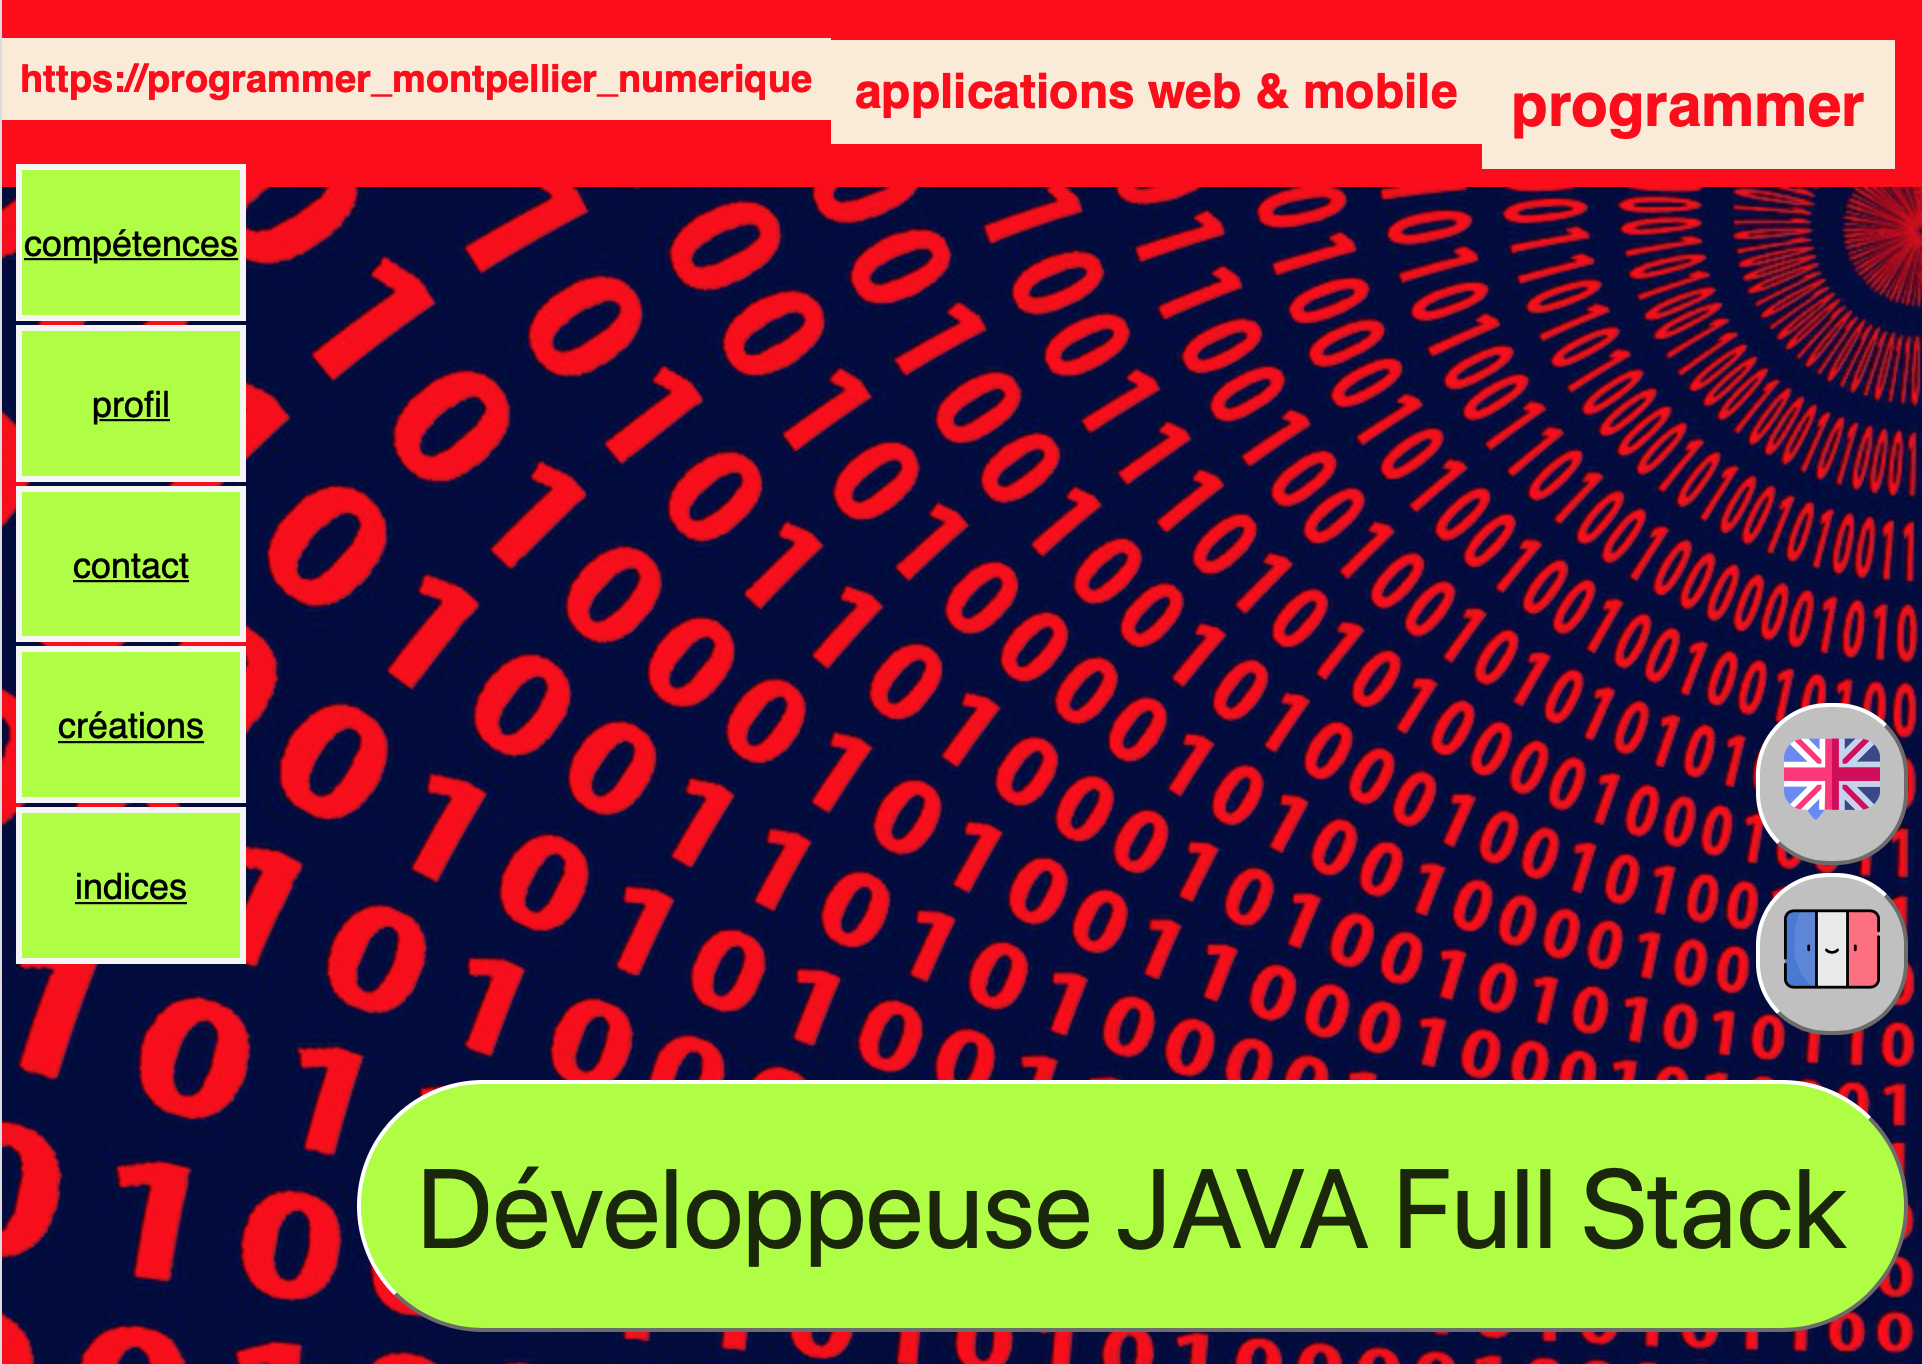
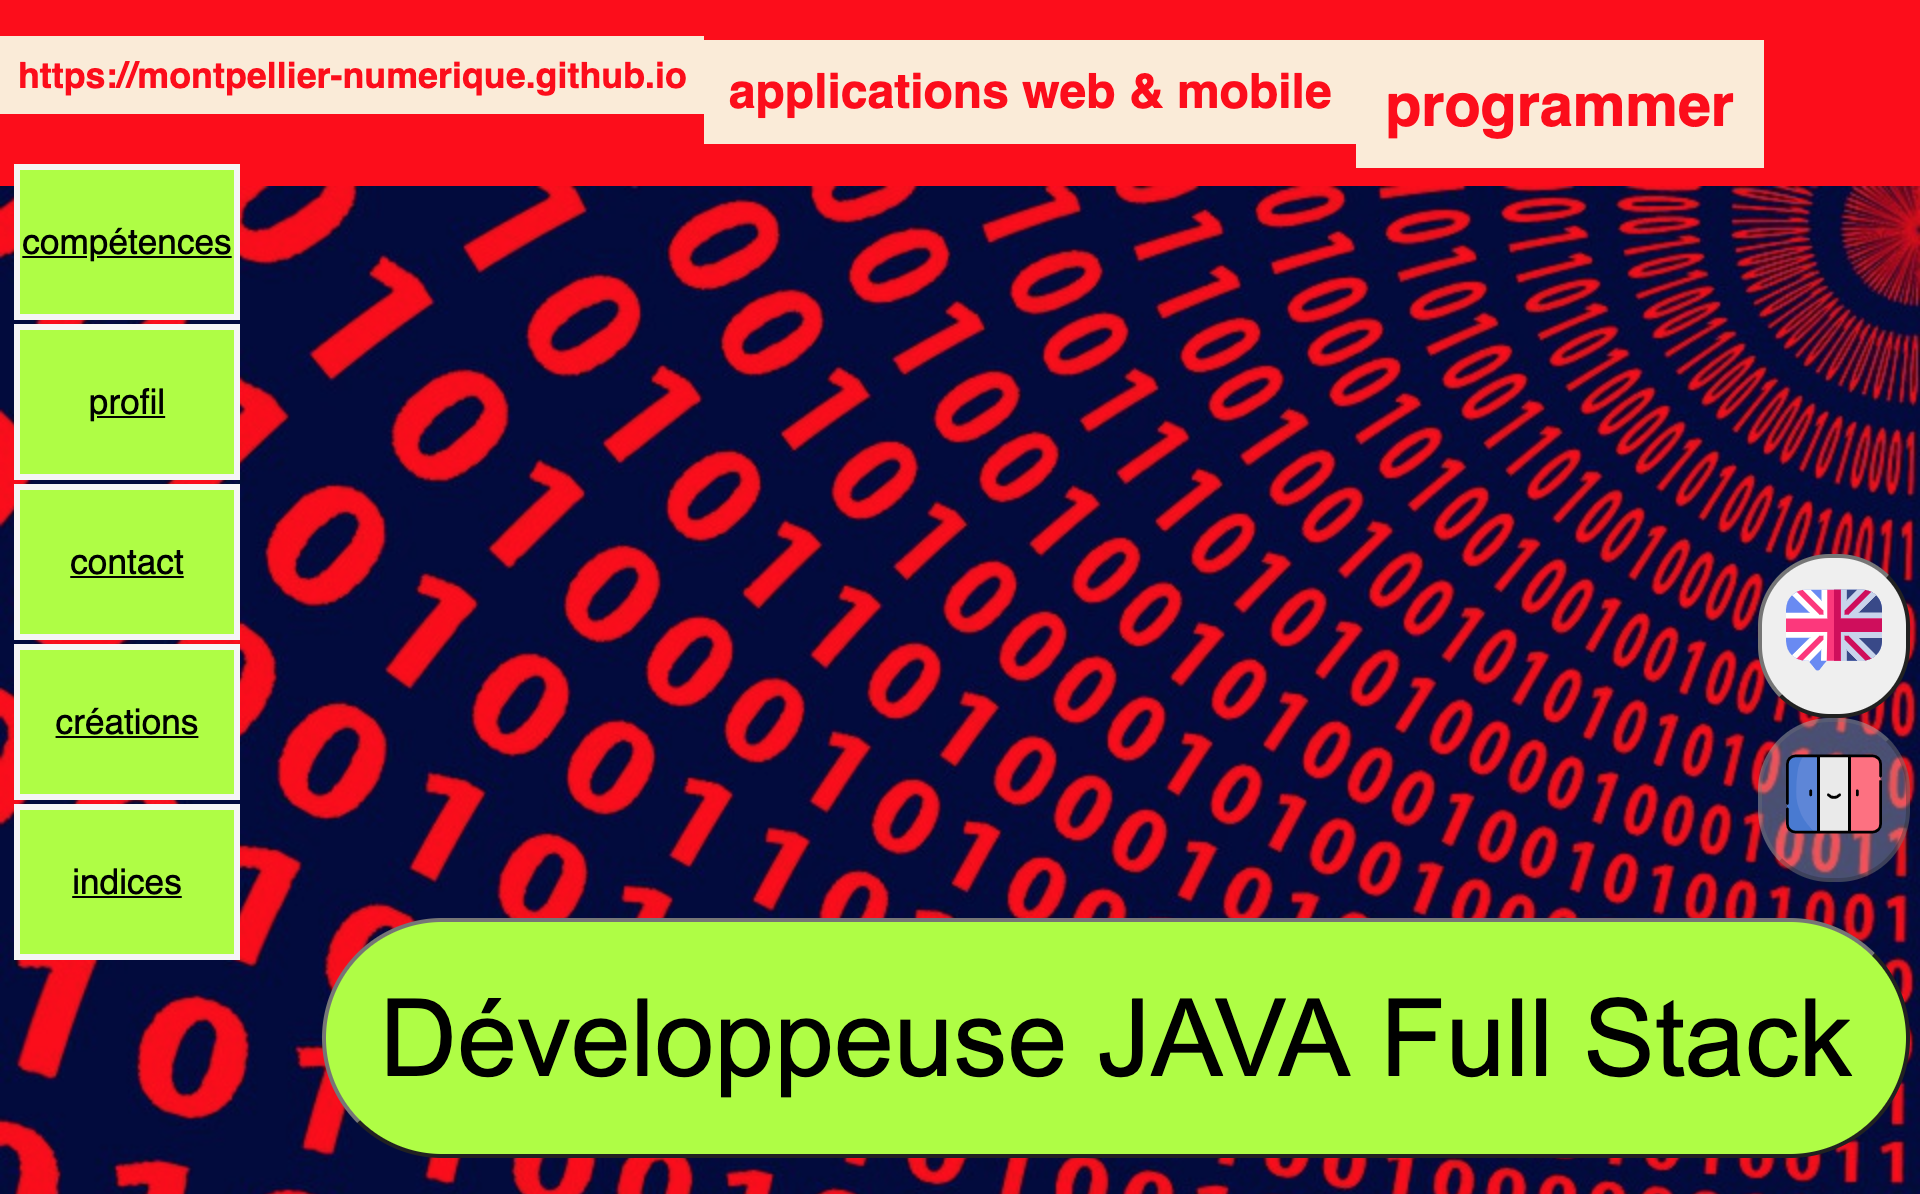
visit cards

diff --git a/css/style.css b/css/style.css
@@ -223,7 +223,7 @@ p {
 }
 
 .flags {
-    padding-top: 12em;
+    padding-top: 7.5em;
 }
 
 /*
